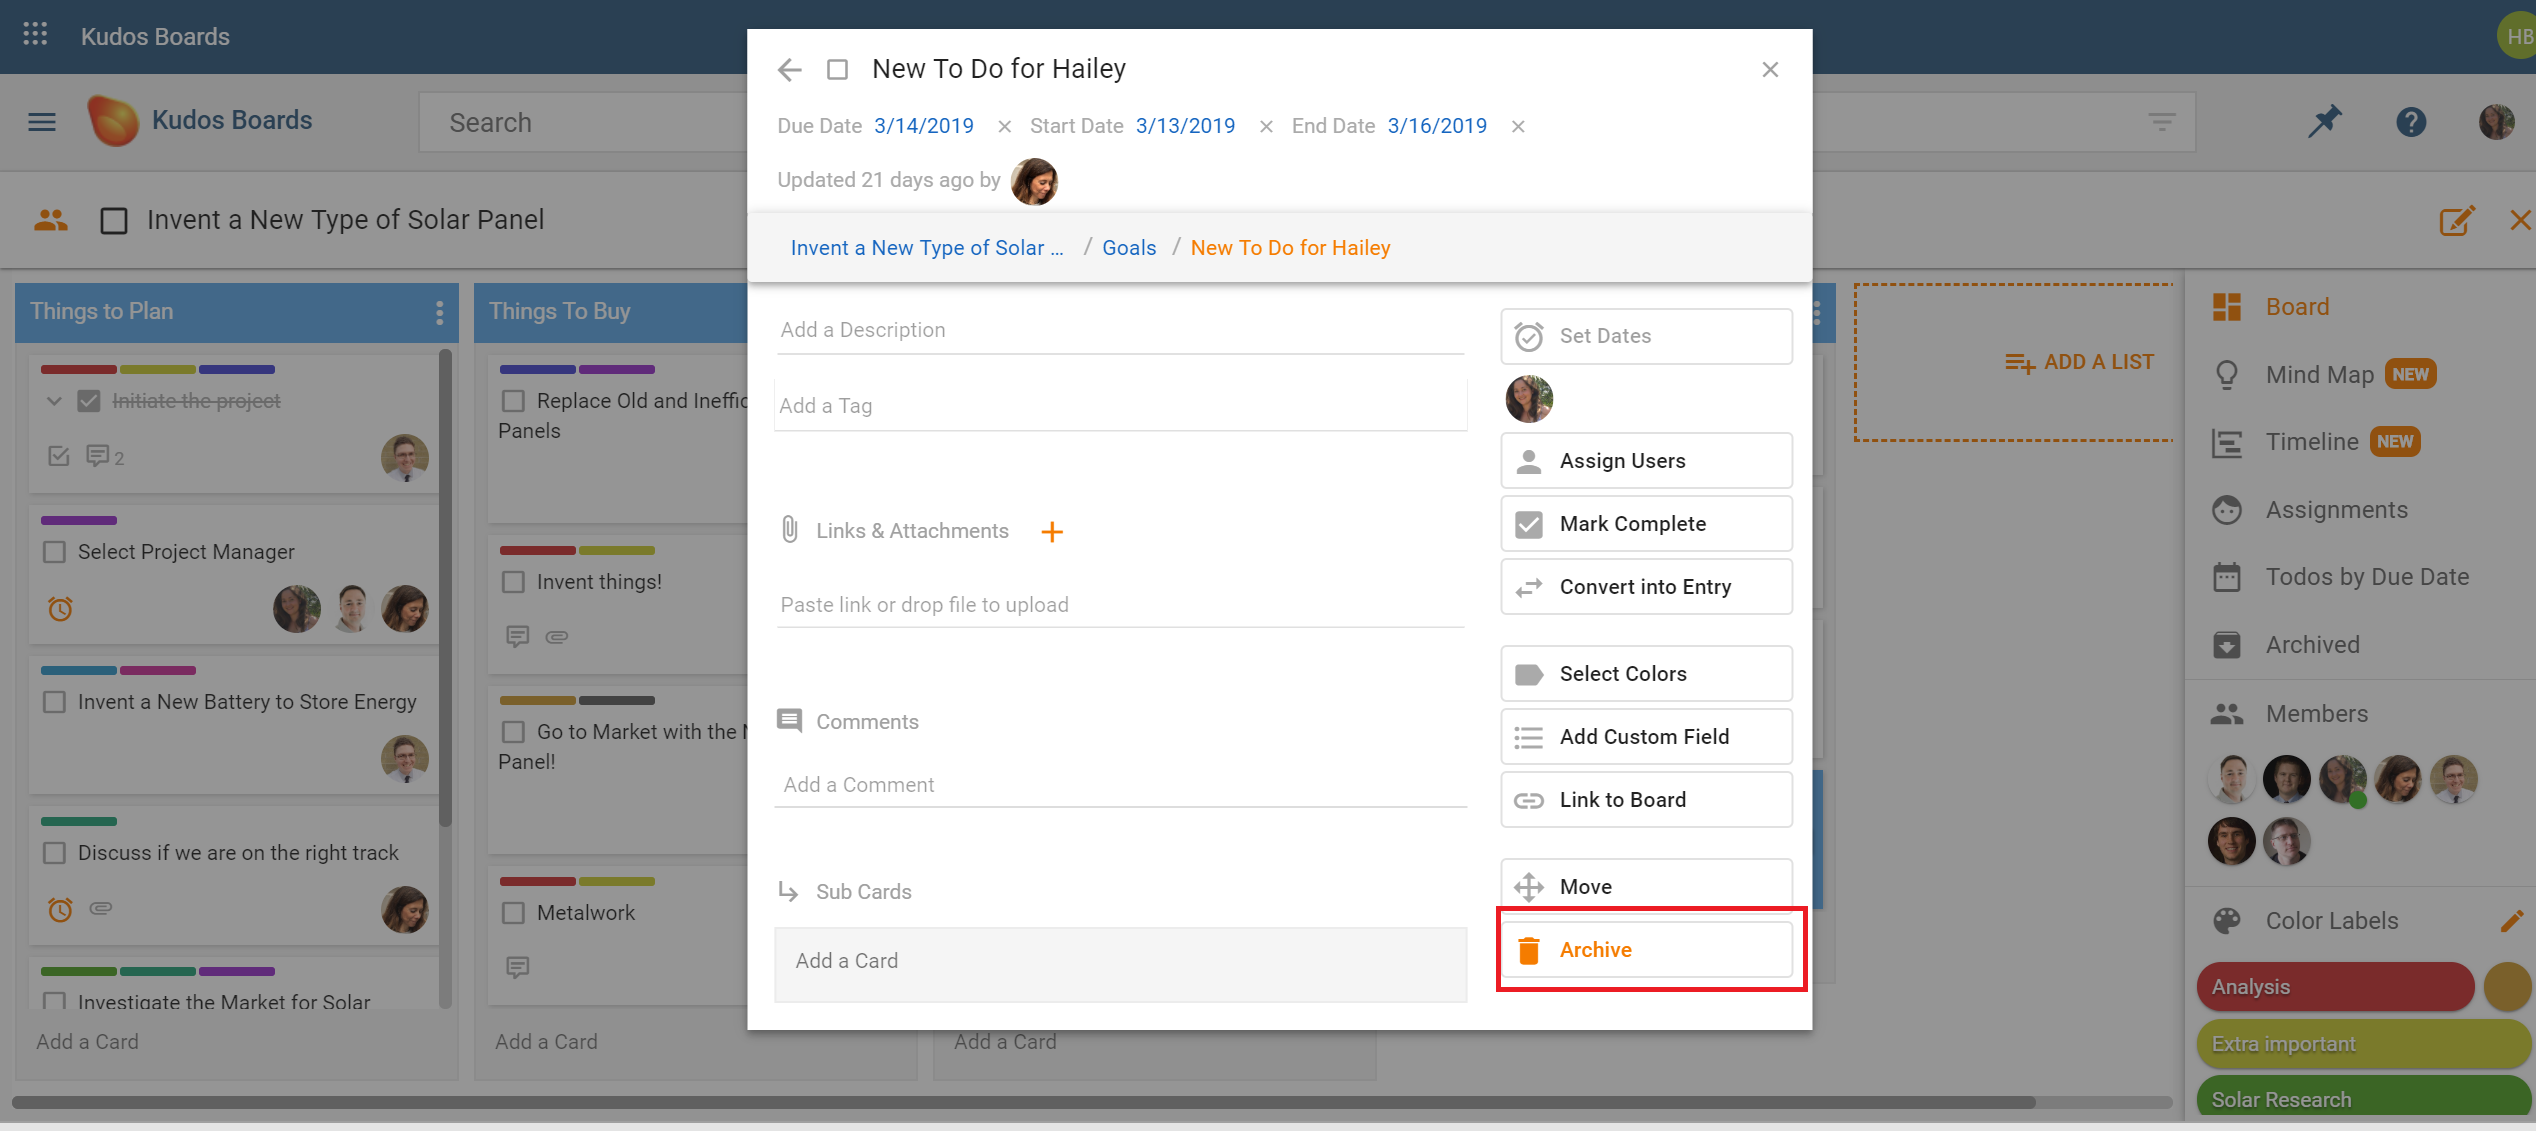
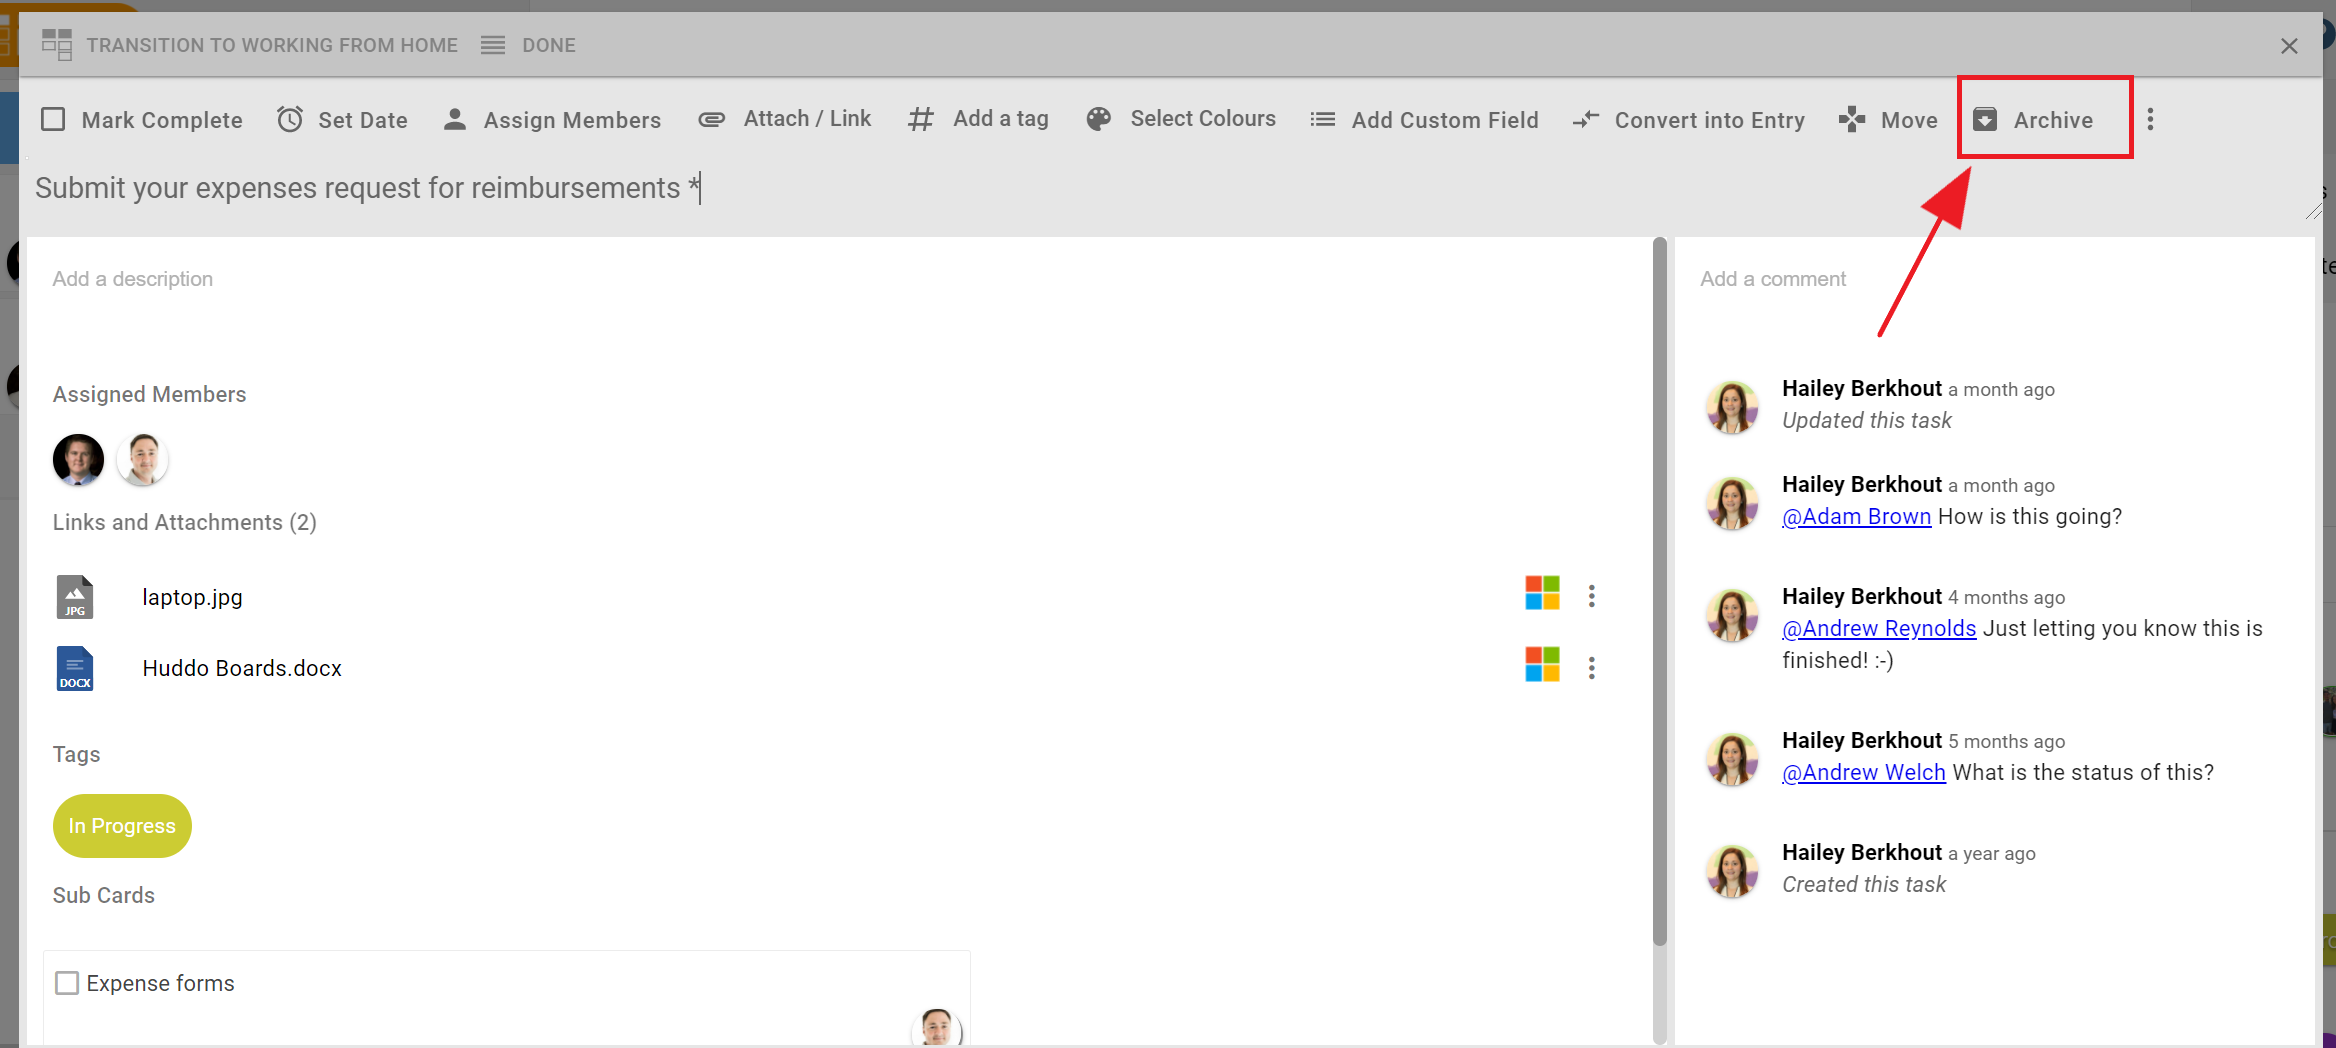
image and content updates

diff --git a/docs/boards/howto/archiving-and-restoring.md b/docs/boards/howto/archiving-and-restoring.md
@@ -10,15 +10,15 @@ Permanently deleting a card, list or board will remove them completely from the 
 
 ### How do I Archive a Card?
 
-Click in to the card you want to archive. Use the `Archive` button at the bottom of the right-hand corner to archive the card. The screen will show it has been archived and when you click away from it, it will disappear from the board.
+Click in to the card you want to archive. Use the `Archive` button at the top of the right-hand corner to archive the card. The screen will show it has been archived and when you click away from it, it will disappear from the board.
 
 ![](/assets/boards/archiving1.png)
 
-Example of an archived board:
+Example of an archived card:
 
 ![](/assets/boards/archiving2.png)
 
-Archived the card by mistake? If you're still in archived card screen, use the `Restore` button in the bottom right corner to bring the card back to the board.
+Archived the card by mistake? If you're still in archived card screen, use the `Restore` button in the top right corner to bring the card back to the board.
 
 ### How do I Archive a List?
 
@@ -26,25 +26,19 @@ To Archive a list, click the vertical `...` icon on the right-hand side of the b
 
   ![](/assets/boards/archiving2.2.png)
 
-  You'll notice that you also have options to archive all of the cards in the list, or move the list to another board.
+  You'll notice that you also have options to archive the list and cards, or just the cards in the list.
 
-### How do I Restore a Card or a List?
+### How do I Restore / Permanently Delete a Card or a List?
 
-If you’ve moved away from the archiving window above, but need to restore a card, click the `Archived` button in the right-hand side menu. It will bring up a window where you can see your archived cards and lists. Click in to the main area of the card or list to bring it up, then click the `Restore` button to return it to the board.
+If you’ve moved away from the archiving window above, but need to restore / delete a card or list, click the `Archived` button in the right-hand side menu. It will bring up a window where you can see your archived cards and lists. Hover over the card or list then click the `Restore` button to return it to the board or the `Delete` to permanently delete it.
 
- ![](/assets/boards/archiving3.png)
+Only use the Delete option if you don't need to access the card or list ever again. For example, if you made a mistake. ***You cannot retrieve permanently deleted items.***
 
-### How do I permanently delete a card or list?
-
-When you select `Archive` from the right-hand side menu, you’ll have the option to delete or restore. This can be seen in the below image, with buttons for `Delete Mode` and `Restore Mode.` You can also use the bin icon located on the right-hand side of the card or list.
-
-Before deleting permanently, you’ll need to select which items you want to delete, and you’ll be prompted to confirm you want to delete them. Only complete this process if you are sure you’ll never need the list or card again. ***You cannot retrieve permanently deleted items.***
-
-![](/assets/boards/archiving4.png)
+![](/assets/boards/archiving3.png)
 
 ### How do I Archive a Board?
 
-Open the board you intend to archive. From your board, use the pencil icon in to top right hand corner to `Open Board Options.` Here you’ll see the `Archive` button at the bottom of the right-hand menu. Click this button to archive the board.
+Open the board you intend to archive. Navigate to `Open Board Options` found in the title of your board, to the left of the search bar. Here you’ll see the `Archive` button at the bottom of the right-hand menu. Click this button to archive the board.
 
 ![](/assets/boards/archiving5.png)
 
@@ -52,7 +46,7 @@ The board will change appearance to indicate it has been archived.
 
 ### How do I permanently delete a board?
 
-From the screen that indicates the board has been archived, you have the option to restore the board, or delete the board permanently. If you select to delete, you’ll be prompted to confirm you want to delete the board and all the data contained within it. ***Remember, you can’t restore or retrieve the board or any of the cards in it, if you delete permanently.***
+From the screen that indicates the board has been archived, you have the option to restore the board, or delete the board permanently. If you select to delete the board and all the data contained within it will be permanently deleted. ***Remember, you can’t restore or retrieve the board or any of the cards in it, if you delete permanently.***
 
 ### How to restore a board
 
